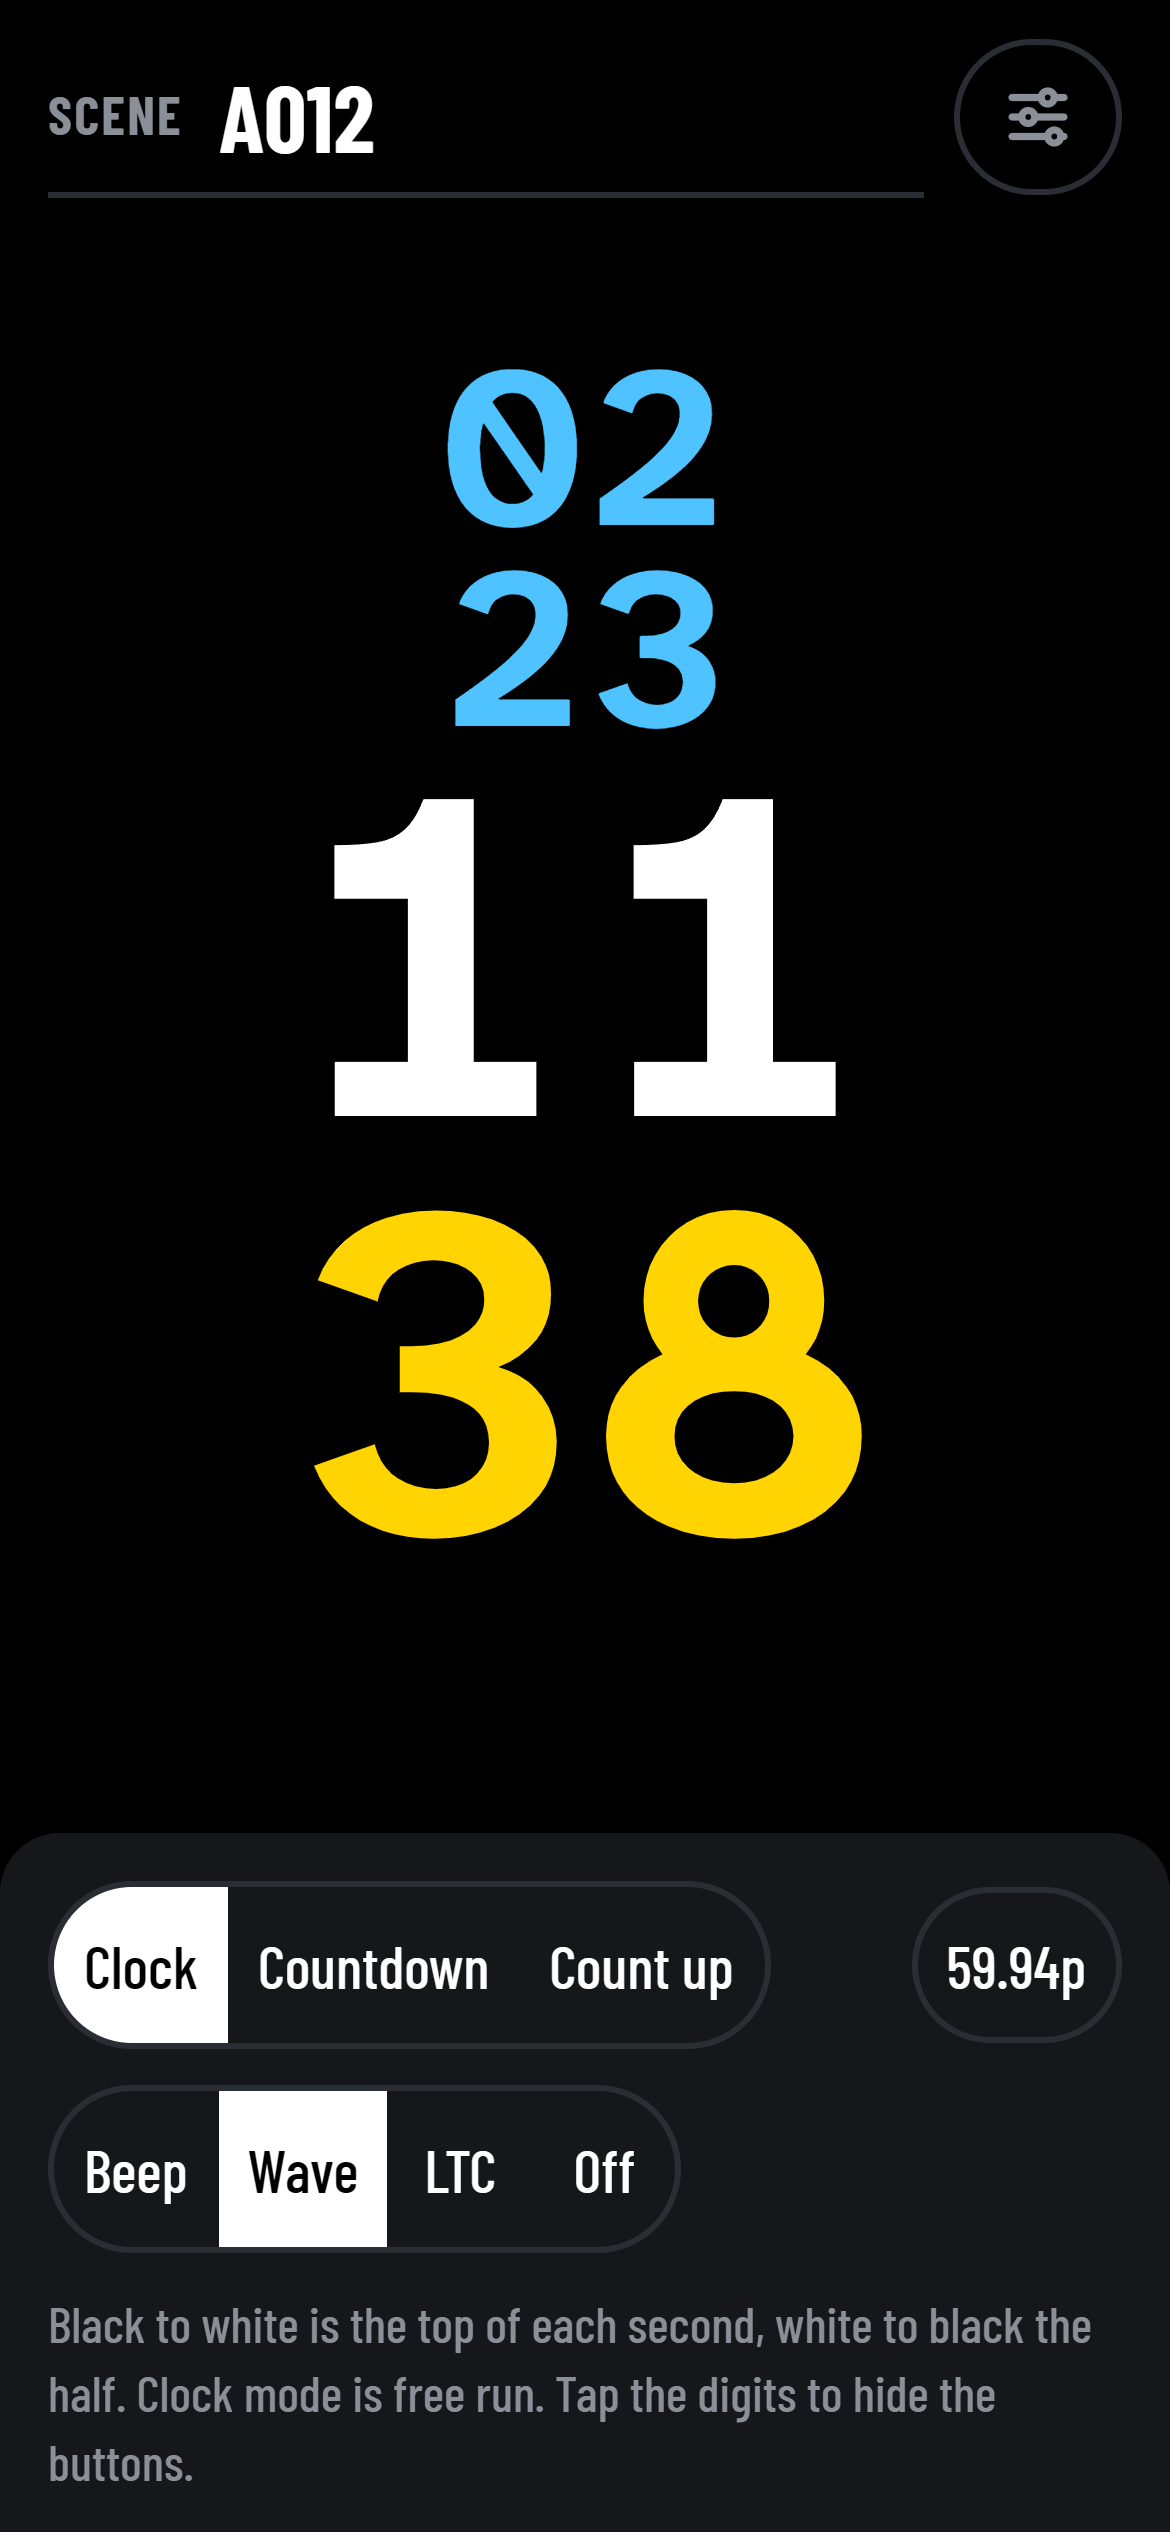
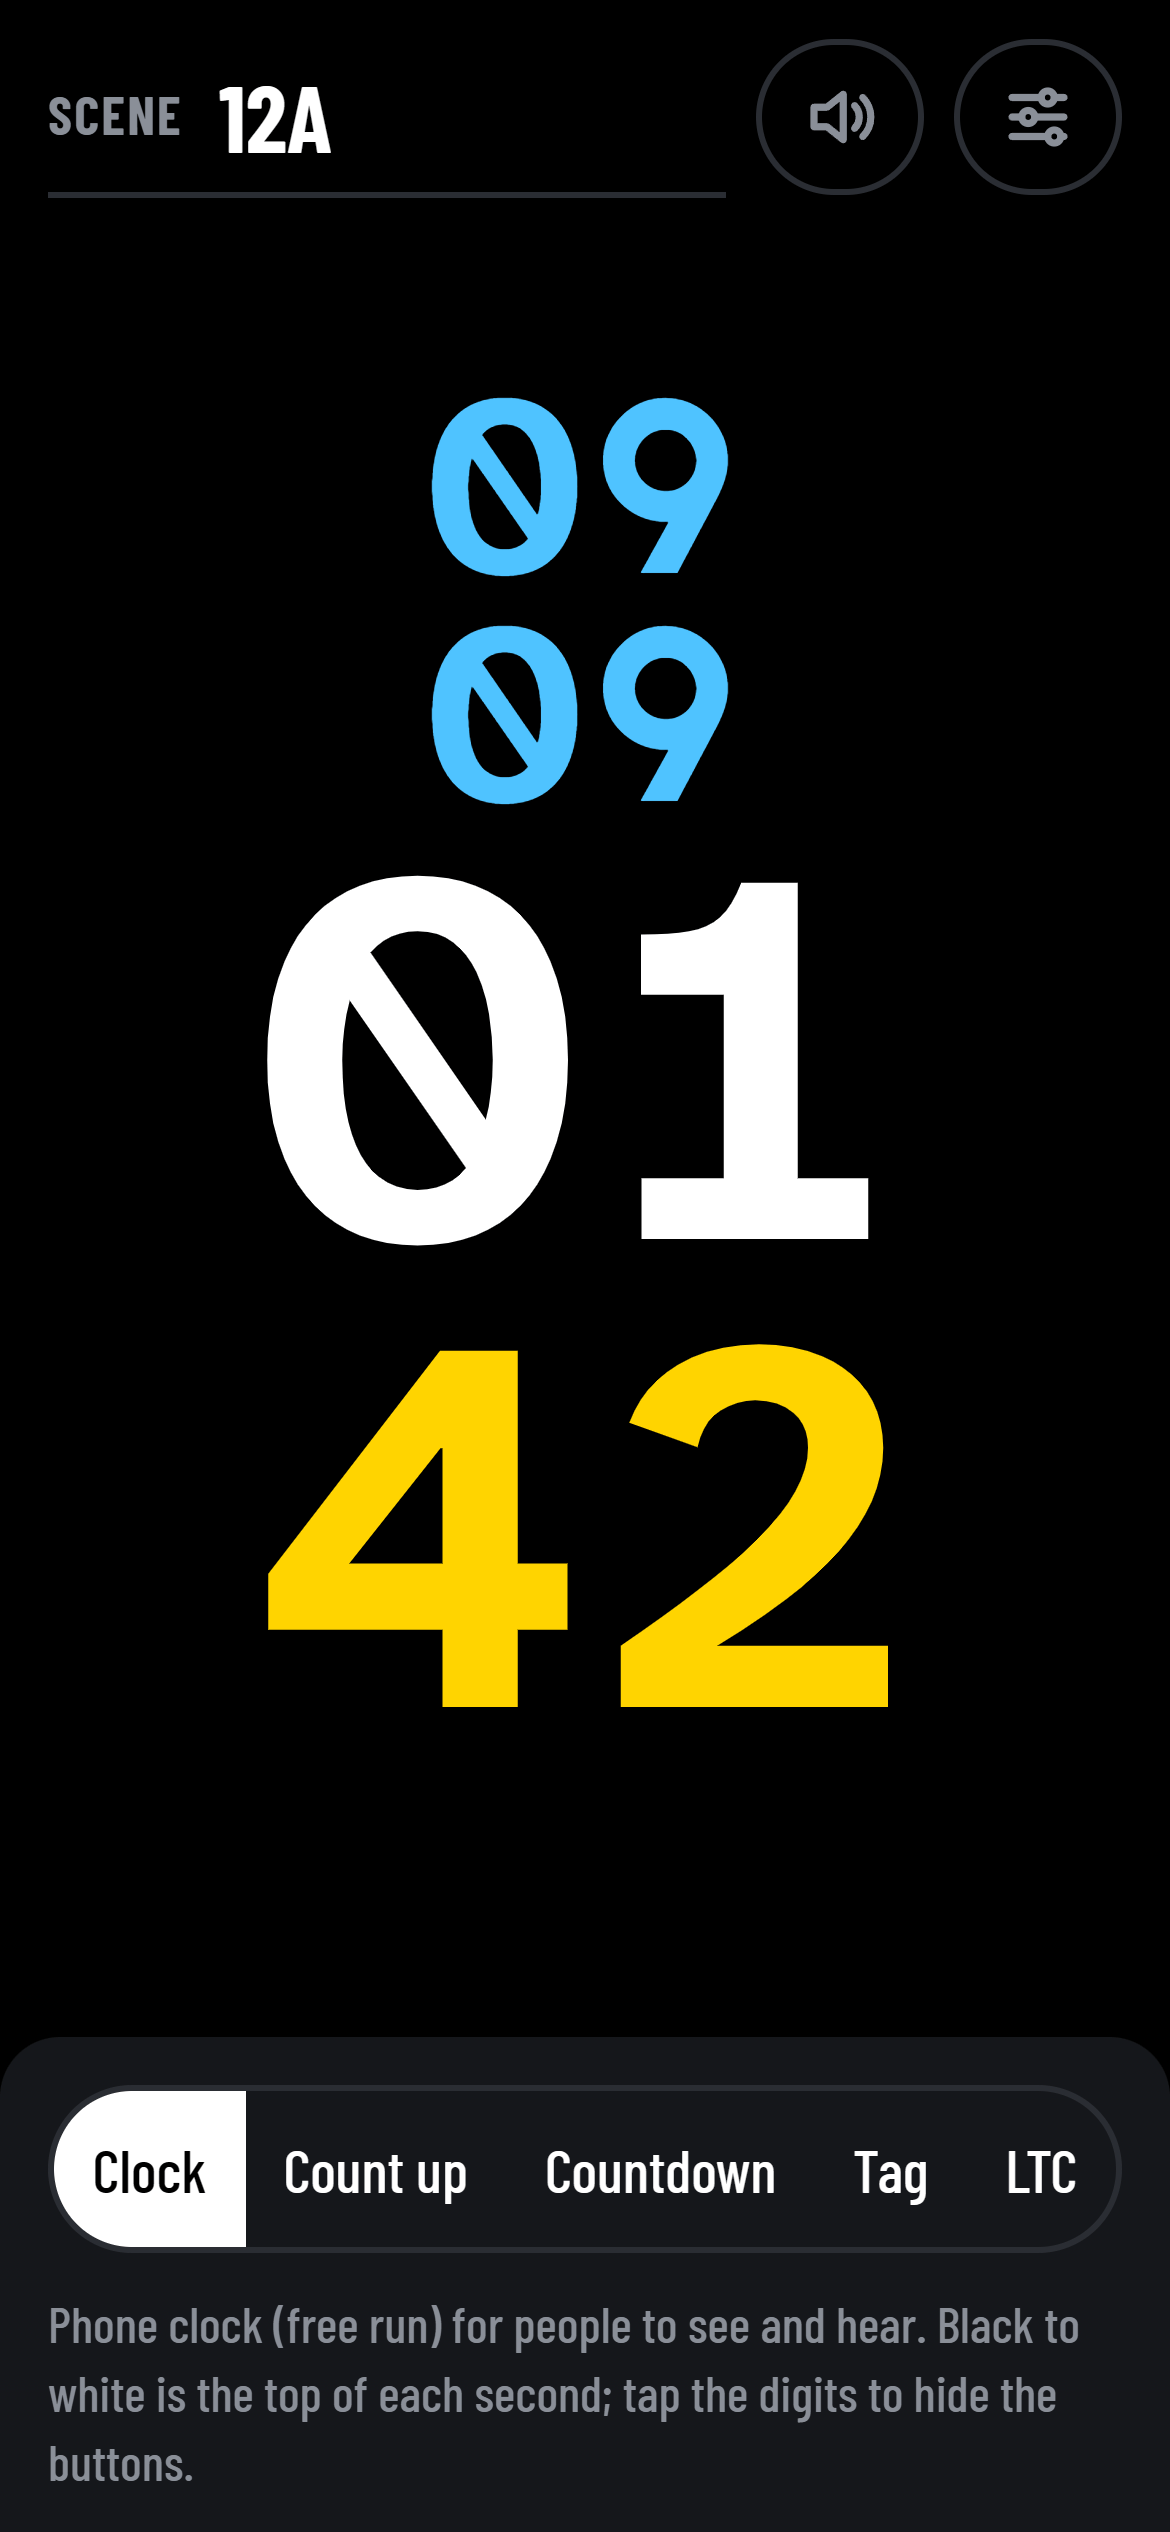
docs: update the README, changelog and screenshots for 1.2.0
The README now explains the slate's five modes, the mute button and the
regrouped settings, links to docs/slate-ui.md instead of repeating it,
and lists npm run screenshots. The slate screenshots are retaken with
that script, adding the countdown, Tag and LTC modes and dropping the
old AprilTag setting.

The changelog's upgrade note says that every 1.1.0 sound choice comes
back as the beep, so waveform-code users know to pick it again.

diff --git a/README.md b/README.md
@@ -12,25 +12,30 @@ slate-sync turns a phone into a sync slate. Record it at the head and tail of ea
 [![License: MIT](https://img.shields.io/badge/License-MIT-blue.svg)](LICENSE)
 
 <p>
-<img src="docs/images/slate-portrait-en.png" alt="The sync slate on a phone held upright: hours, minutes, seconds and frames on four rows" width="220">
-<img src="docs/images/slate-landscape-en.png" alt="The sync slate on a phone held sideways: the clock on two rows" width="476">
+<img src="docs/images/slate-portrait-en.png" alt="The sync slate in clock mode on a phone held upright: hours, minutes, seconds and frames on four rows, with the five mode buttons below" width="220">
+<img src="docs/images/slate-landscape-en.png" alt="The sync slate in clock mode on a phone held sideways: the clock on two rows" width="476">
 </p>
 
-*The sync slate on a phone. Held upright, the clock shows hours, minutes, seconds and frames on four rows. Held sideways, it shows two rows. Tap the digits to hide the controls.*
+*The sync slate on a phone, in clock mode. Held upright, the clock shows hours, minutes, seconds and frames on four rows. Held sideways, it shows two rows. The five modes are switched at the bottom; mute and settings sit top right. Tap the digits to hide the controls.*
 
 ![The analyzer in a desktop browser after analyzing two test files: results, audio/video sync check, alignment and conversion, and the text report](docs/images/analyzer-full-en.png)
 
 *The analyzer in a desktop browser after an analysis: results, audio/video sync check, alignment and conversion, and the text report.*
 
 <details>
-<summary>More screens: AprilTag mode, settings, dialogs, analyzer menus</summary>
+<summary>More screens: countdown, Tag and LTC modes, settings, dialogs, analyzer menus</summary>
 
-<img src="docs/images/slate-apriltag-en.png" alt="The slate in AprilTag mode" width="220">
+<img src="docs/images/slate-countdown-en.png" alt="The slate in countdown mode, counting down" width="220">
+<img src="docs/images/slate-tag-en.png" alt="The slate in Tag mode: the AprilTag with one line of phone clock" width="220">
+<img src="docs/images/slate-ltc-en.png" alt="The slate in LTC mode: the AprilTag with one line showing the LTC being sent" width="220">
+
+*The slate: a countdown running, Tag mode (AprilTag and the phone clock) and LTC mode (AprilTag and the LTC time code being sent).*
+
 <img src="docs/images/slate-settings-en.png" alt="The slate's settings page" width="220">
 <img src="docs/images/slate-schedule-en.png" alt="The schedule start dialog" width="220">
 <img src="docs/images/slate-custom-en.png" alt="The custom countdown dialog" width="220">
 
-*The slate: AprilTag visual code, the settings page (full height), scheduling a start, and a custom countdown.*
+*The slate: the settings page (full height), scheduling a start, and a custom countdown.*
 
 ![The analyzer's options bar](docs/images/analyzer-options-en.png)
 
@@ -45,10 +50,12 @@ slate-sync turns a phone into a sync slate. Record it at the head and tail of ea
 ## Features
 
 - **Phone slate, no install.** Open the page and add it to the home screen. It runs full screen and **works offline** after the first visit.
-  - **Clock, countdown or count-up**, with scheduled starts.
-  - **Full-screen black/white square wave.** Black to white marks the whole second, so a camera that only sees the screen can still be aligned.
-  - **AprilTag visual code.** A machine-readable tag that changes on every whole second, together with the waveform code. A camera that films only the screen can then be timed automatically.
-  - **Audio sync signal:** beep, **waveform code** or **LTC**, at 23.976 to 120 fps.
+  - **Five modes.** The mode decides what the screen shows and what the phone plays:
+    - **Clock, Count up and Countdown** are for people to see and hear: large digits, a full-screen black/white square wave (black to white marks the whole second) or a short flash, and a beep or the **waveform code**. Count-up and countdown can be scheduled.
+    - **Tag** is for cameras that only see the screen: a full-screen **AprilTag visual code** that changes on every whole second, with the waveform code, so the analyzer times them automatically.
+    - **LTC** is for devices that record time code: the same AprilTag, with **LTC** on the audio output.
+  - **Mute button.** Works in every mode, silences only the sound (the screen carries on) and is remembered.
+  - **Settings page** for the less-used options, such as the digit modes' sound, the frame rate and calibration; the modes and every setting are specified in [docs/slate-ui.md](docs/slate-ui.md) (Traditional Chinese).
 - **Waveform code you can read by eye.** Each second's number is encoded as pulse counts, so you can read it in any editor's waveform view. It survives clipping, limiters, auto gain and lossy compression, and works through the phone speaker and a camera's built-in mic.
   - **A 9-minute cycle in the pitch.** Each second's pitch is one of 11 pentatonic notes. Together with the second's number it gives the position within 9 minutes, the same cycle the AprilTag uses.
 - **Drag-and-drop analyzer in the browser.** Files never leave your computer. It reads only the head and tail of each file, not the whole recording.
@@ -64,12 +71,12 @@ slate-sync turns a phone into a sync slate. Record it at the head and tail of ea
 
 ## How it works
 
-1. **Before the shoot.** Feed one audio channel of each recorder or camera from the phone's headphone output (attenuate it for a MIC input), and set the slate to **waveform code**. A device with no audio input can record the phone speaker through its built-in mic:
+1. **Before the shoot.** Feed one audio channel of each recorder or camera from the phone's headphone output (attenuate it for a MIC input), and use the slate's **Tag** mode, or set Settings → Sound to **Waveform code** for clock, count-up and countdown. For a device that should record LTC and can also see the screen, use **LTC** mode instead. A device with no audio input can record the phone speaker through its built-in mic:
    - within 30 cm it is most reliable;
    - up to 1 m works in a quiet room;
    - don't send LTC over the air.
 2. **At the head and the tail.** Record the slate for 5–10 seconds at the head and at the tail of each take. You can unplug it in between (see [Recording guide](#recording-guide)).
-   - **Cameras that only see picture:** set Settings → Visual sync signal to **AprilTag** and film the phone so the tag fills a good part of the frame, in focus and facing the camera. Tap the digits to hide the controls, which makes the tag larger.
+   - **Cameras that only see picture:** switch the slate to **Tag** mode and film the phone so the tag fills a good part of the frame, in focus and facing the camera. Tap the digits to hide the controls, which makes the tag larger.
 3. **Afterwards.** Drop all files into the analyzer, or run the command line.
 4. **In your editor.** Align cameras by picture and use the analyzer's numbers to check and convert. Correct each file with its speed ratio, adjusted frame rate or corrected length.
 
@@ -166,13 +173,14 @@ Every second that is read goes into one fit. While reading, the analyzer estimat
 
 ## Self-hosting and development
 
-The web pages are built from `web/` and `src/` into `dist/`; the analyzer becomes a single HTML file. Node 20 or later is required.
+The web pages are built from `web/` and `src/` into `dist/`; the slate and the analyzer each become a single HTML file. Node 20 or later is required.
 
 ```bash
 npm ci          # first time: install the build tool (esbuild)
 npm run build   # build into dist/
 npm run dev     # development: rebuild on change, open http://localhost:8000/
 npm test        # all tests (needs ffmpeg / ffprobe; the web tests also need Chrome or Edge)
+npm run screenshots   # retake the screenshots in docs/images/ (needs Node 22+, ffmpeg and Edge or Chrome)
 ```
 
 - **GitHub Pages.** Fork the repo and set Settings → Pages → Source to **GitHub Actions**. Every push to `main` then builds `dist/`, runs the tests and publishes the tested build through [`.github/workflows/test.yml`](.github/workflows/test.yml). Any static host with HTTPS also works.
@@ -183,11 +191,11 @@ npm test        # all tests (needs ffmpeg / ffprobe; the web tests also need Chr
 
 | Path | What it is |
 |---|---|
-| [`web/`](web/) | Home page, the sync slate [`sync-slate.html`](web/sync-slate.html) (phone PWA) and the PWA files; copied as is into `dist/` |
-| [`src/core/`](src/core/) | Analysis core: waveform code, LTC, visual code, fitting, reports and the four languages (shared by the web page and the command line) |
-| [`src/web/`](src/web/) | Web analyzer: MP4/WAV reading, WebCodecs decoding and the page; built into `dist/sync-analyzer.html` |
+| [`web/`](web/) | Home page and the PWA files; copied as is into `dist/` |
+| [`src/core/`](src/core/) | Analysis core: waveform code, LTC, visual code, fitting, reports and the four languages (shared by the web page and the command line); [`slate.js`](src/core/slate.js) holds the encoders (waveform code, LTC, tag) shared by the slate, the analysis core and the tests |
+| [`src/web/`](src/web/) | Web pages: the sync slate [`sync-slate.html`](src/web/sync-slate.html) + [`slate.js`](src/web/slate.js) (phone PWA), built into `dist/sync-slate.html`; the analyzer (MP4/WAV reading, WebCodecs decoding and the page), built into `dist/sync-analyzer.html` |
 | [`cli/`](cli/) | Command-line analyzer: reads files with ffmpeg / ffprobe and hands them to the core |
-| [`scripts/build.mjs`](scripts/build.mjs) | Build and development server |
+| [`scripts/`](scripts/) | [`build.mjs`](scripts/build.mjs): build and development server; [`screenshots.mjs`](scripts/screenshots.mjs): retakes the documentation screenshots |
 | [`tests/`](tests/) | Tests (`node --test`), fixed test files (`tests/fixtures/`) and [`make_test_media.mjs`](tests/make_test_media.mjs), which generates test files with a known drift |
 | [`docs/`](docs/README.md) | Specifications and test results (Traditional Chinese); [the index](docs/README.md) lists which document owns which specification |
 | [`CHANGELOG.md`](CHANGELOG.md) | Release notes (Traditional Chinese) |

diff --git a/CHANGELOG.md b/CHANGELOG.md
@@ -1,5 +1,36 @@
 # 更新紀錄
 
+## 1.2.0 — 2026-11-14
+
+### 同步場記板
+- 主畫面改為五選一的模式：時鐘、正數、倒數、Tag、LTC，畫面與聲音由模式決定，不必再分別設定模式、音訊切換與畫面碼。
+  - 時鐘、正數、倒數給人看與聽，依設定播嗶聲或波形碼、顯示黑白方波或短閃白。
+  - Tag 顯示 AprilTag 與方波外框帶，下方一行手機時鐘，播波形碼。
+  - LTC 同樣顯示 AprilTag，下方一行目前輸出的 LTC 時間碼，輸出 LTC。
+  - 規格見 docs/slate-ui.md。
+- 新增靜音鈕（右上角、設定鈕左邊）：五種模式都有效，只關聲音、畫面照常，會記住。
+- 影格率與音訊切換移出主畫面：影格率改在設定頁的 LTC 區段選，聲音由模式決定。
+- 設定頁重排：
+  - 分成數字模式、LTC、倒數、校準、外觀、其他六組，每個設定是一張卡片。
+  - 說明只講目前選中的選項，切換時跟著換。
+  - 選取一律白底黑字，黃色只留給「完成」與警示。
+  - DF／NDF 只在 29.97 系列可選。
+  - 語言改為兩欄的格狀。
+- 靜音或換了聲音種類時，正在播的嗶聲或波形碼在 5 ms 內淡出並停止。開始、停止、調聲音延遲，以及在都播波形碼的模式之間切換時，正在播的那一秒照常播完，不會被切掉。
+- 其他修正：
+  - 從 LTC 模式或轉向後切到 Tag，下方時鐘行的字級會重新計算。
+  - 無法保持螢幕常亮的提醒改在模式提示下方另起一行，不再蓋掉模式提示。
+  - 排程對話框的指定時間選取時改用白框，與其他選項一致。
+- 升級注意：
+  - 1.1.0 存下的聲音選擇（波形碼、LTC、關）升級後一律變成嗶聲、時鐘模式。用波形碼的請到「設定 → 聲音」重選，或改用 Tag／LTC 模式；要安靜請按靜音鈕。
+
+### 開發
+- 場記板納入建置：
+  - 由範本 `src/web/sync-slate.html` 加 `src/web/slate.js` 打包成單一檔案 `dist/sync-slate.html`，與分析器相同。
+  - 模式規則放在 `src/web/slate-mode.js`，並有單元測試。
+- 場記板的編碼函式（波形碼、LTC、tag 碼表與繪製）移到 `src/core/slate.js`，由場記板、分析核心、測試與測試產生器共用同一份；測試直接 import，不再從 HTML 載入。
+- 新增 `npm run screenshots`（`scripts/screenshots.mjs`）：以 headless Edge／Chrome 重拍 `docs/images/` 的場記板與分析器截圖。
+
 ## 1.1.0 — 2026-11-14
 
 ### 同步場記板（web/sync-slate.html）
